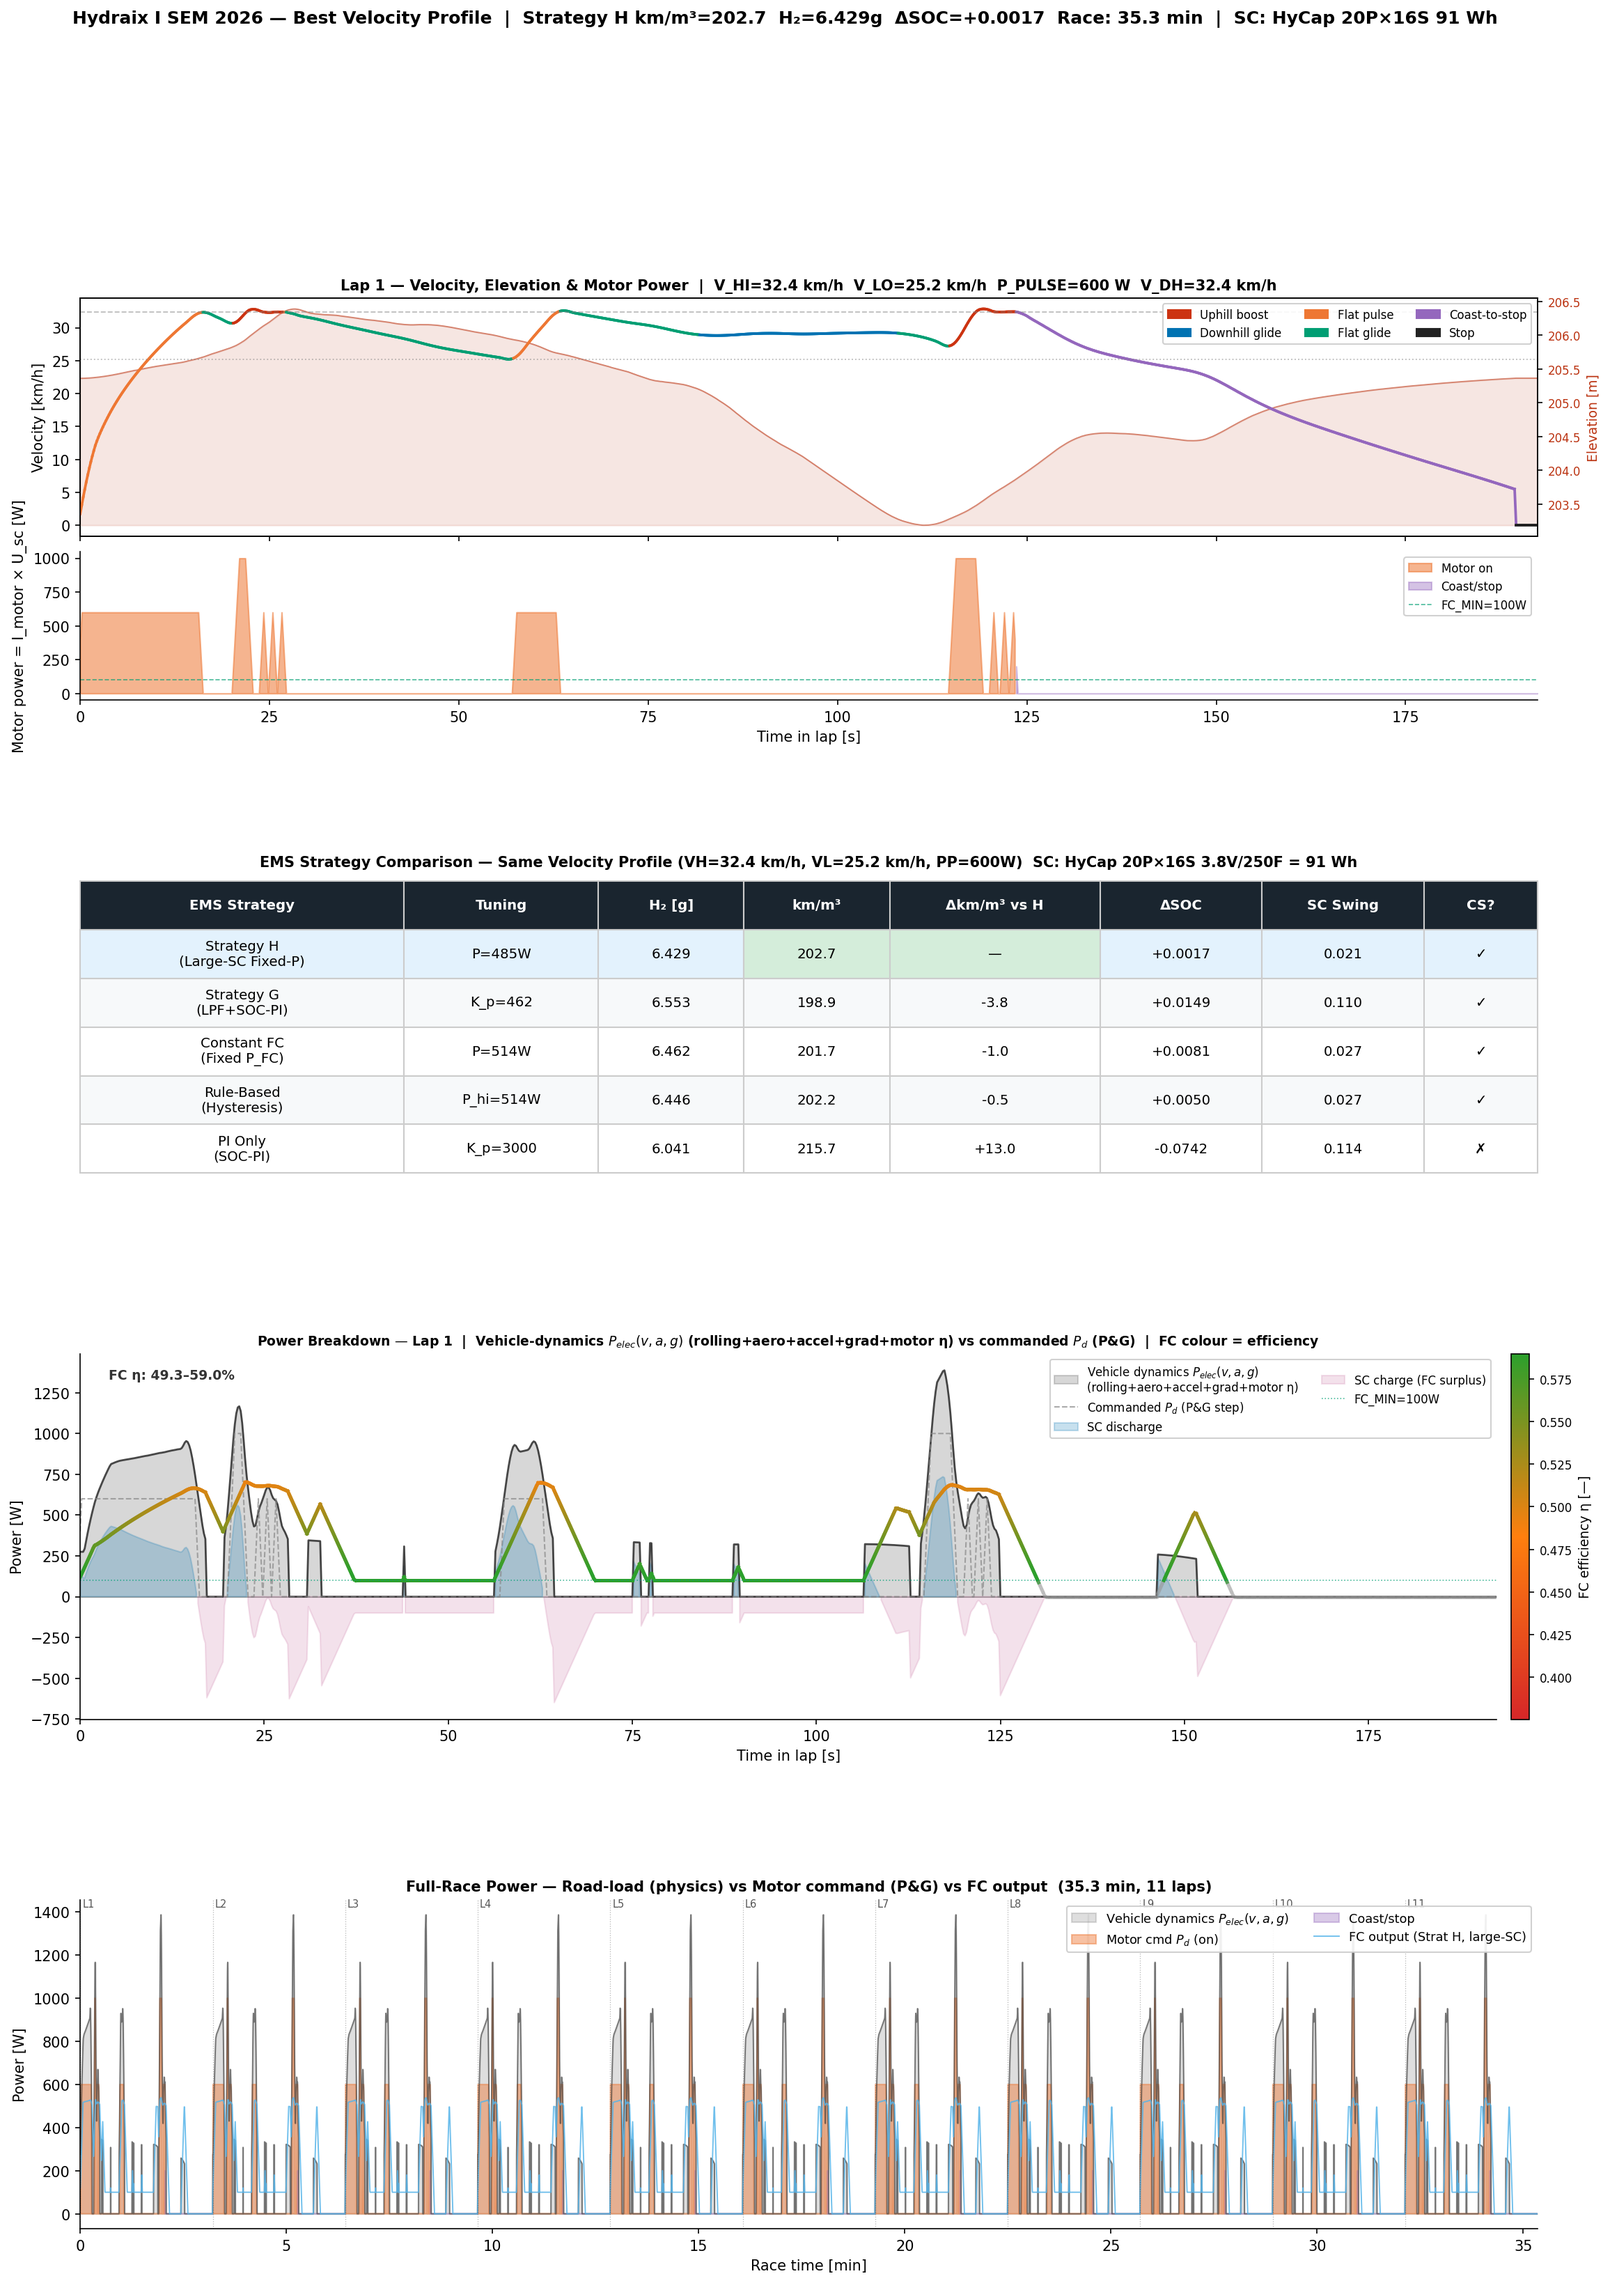
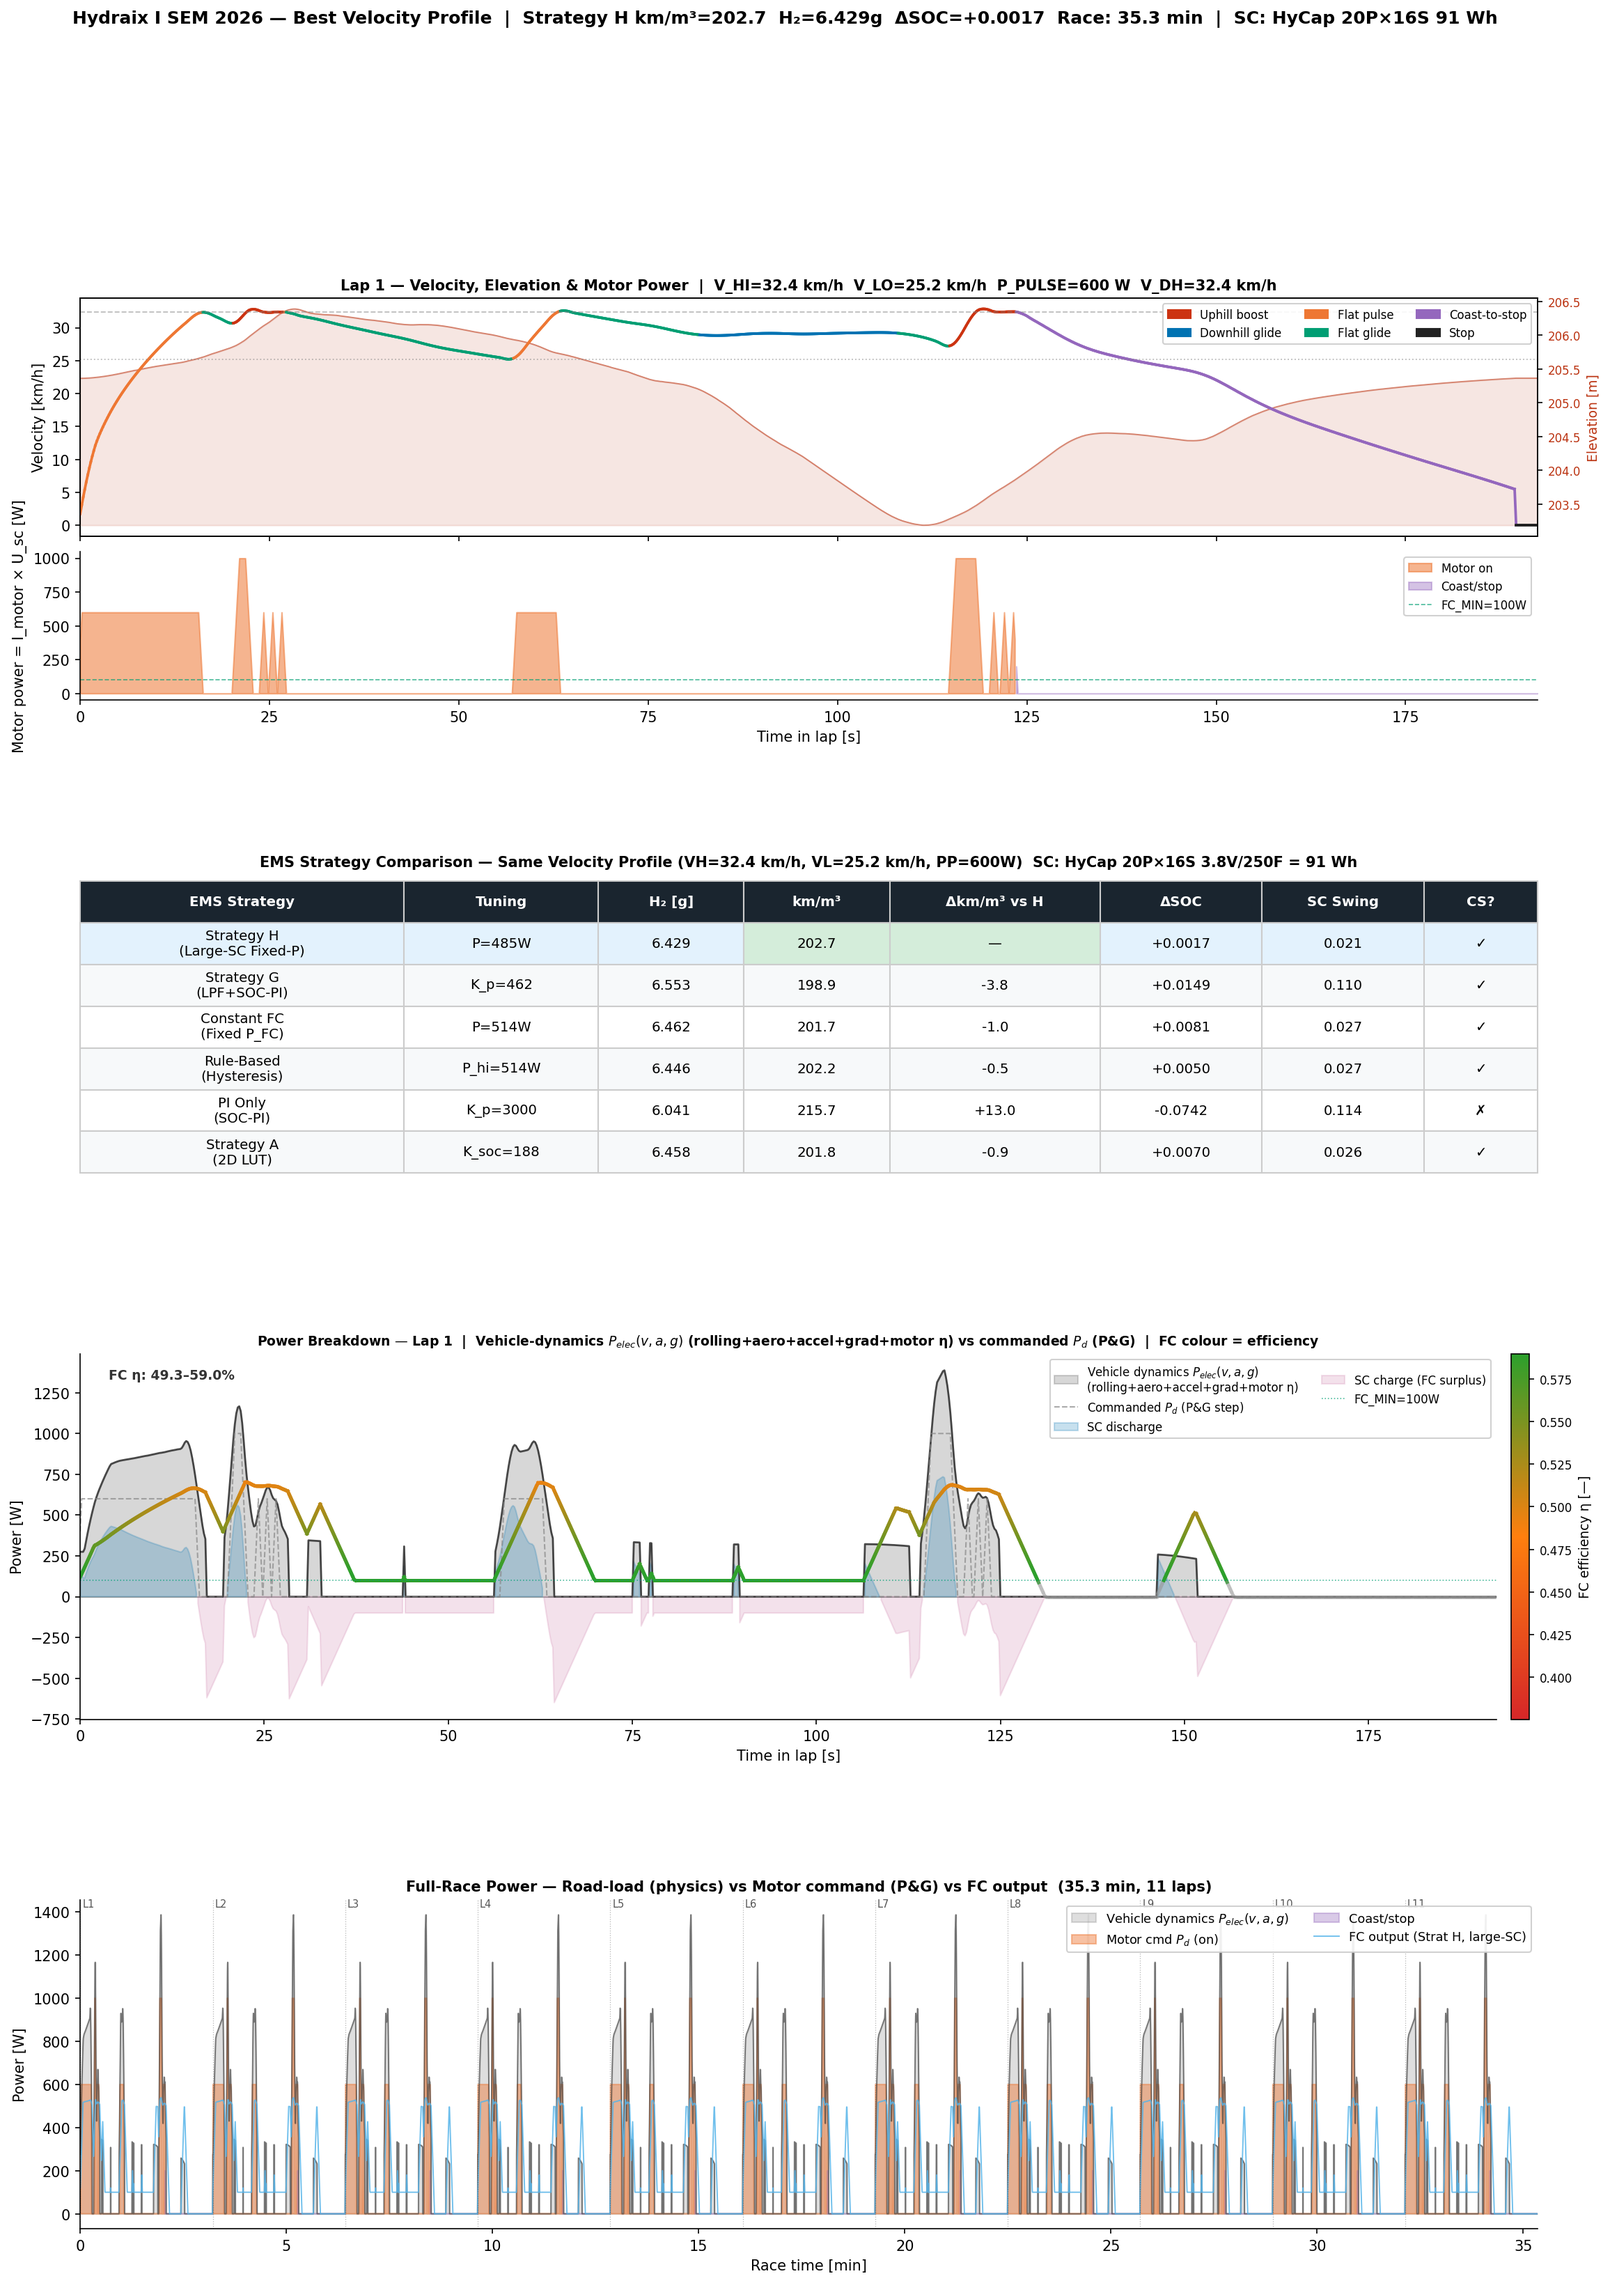
Add Strategy A (2D LUT) with I_motor/U_sc interface to EMS comparison
Ports strategy_a_lut.py into combined_best_profile.py using the same
fn(I_motor, U_sc, Pp, til, li) interface as all other strategies.

Key design choices:
- u = (P_motor - P_fc_prev) / SC_E_J  (normalized SC power request)
- P_base computed to balance energy accounting for the FC_P_MIN floor
  that simulate() applies during glide phases:
  P_base = (E_motor_total - FC_MIN × T_glide) / T_motor_on
- K_soc bisected for charge sustenance (|dSOC| ≤ 0.015)

Results on best profile (VH=9.0, VL=7.0, PP=600W):
  Strategy A:  K_soc=188  H2=6.458g  km/m³=201.8  dSOC=+0.007 ✓
  vs. Strategy H (best): km/m³=202.7, Strategy G: km/m³=198.9

Strategy A converges in 2 bisection iterations vs 6-25 for others,
thanks to the energy-balanced P_base removing most steady-state error.

https://claude.ai/code/session_01FtkemtJr7FgRXKyhfbWrwm

Changed region(s): [[0.0623, 0.3734, 0.9343, 0.529], [0.9031, 0.4667, 0.9343, 0.4979]]

diff --git a/fcs-strategy/ems/combined_best_profile.py b/fcs-strategy/ems/combined_best_profile.py
@@ -12,7 +12,7 @@ import matplotlib.gridspec as mgridspec
 import matplotlib.colors as mcolors
 import matplotlib.cm as mcm
 from scipy.signal import savgol_filter
-from scipy.interpolate import interp1d
+from scipy.interpolate import interp1d, RegularGridInterpolator
 
 from ems_core import (
     FC_P_MIN, FC_P_MAX, FC_RAMP, LHV_H2,
@@ -254,6 +254,43 @@ def make_strat_h(P_set):
         return float(np.clip(P,FC_P_MIN,FC_P_MAX))
     return fn
 
+def make_strat_a(K_soc, P_base=200.):
+    """
+    Strategy A — 2D Lookup Table EMS.
+
+    Maps (u = (P_motor − P_fc_prev) / SC_E_J, SOC) → P_fc [W] via bilinear
+    interpolation on a 21×18 pre-built table.
+
+    K_soc  : SOC feedback gain [W per unit SOC], bisected for charge sustenance.
+    P_base : mean motor-on demand [W], feedforward term (sets FC at SOC=SOC_0).
+    K_rate : rate feedforward for |u| > deadband (rarely activates with large SC).
+    """
+    u_grid   = np.linspace(-0.050, 0.050, 21)
+    soc_grid = np.linspace(0.10, 0.95, 18)
+    K_rate   = 500.0
+    deadband = 0.020
+    TABLE = np.zeros((21, 18))
+    for i, u_i in enumerate(u_grid):
+        for j, soc_j in enumerate(soc_grid):
+            delta_soc  = K_soc * (SC_SOC_0 - soc_j)
+            delta_rate = (K_rate * (abs(u_i) - deadband) * np.sign(u_i)
+                          if abs(u_i) > deadband else 0.0)
+            TABLE[i, j] = float(np.clip(P_base + delta_soc + delta_rate,
+                                        FC_P_MIN, FC_P_MAX))
+    _interp = RegularGridInterpolator(
+        (u_grid, soc_grid), TABLE,
+        method='linear', bounds_error=False, fill_value=None
+    )
+    def fn(I_motor, U_sc, Pp, til, li):
+        P_motor = I_motor * U_sc
+        SOC = (U_sc**2 - SC_V_MIN**2) / (SC_V_MAX**2 - SC_V_MIN**2)
+        if I_motor < 0.1:
+            return 0.
+        u     = float(np.clip((P_motor - Pp) / SC_E_J, u_grid[0], u_grid[-1]))
+        soc_c = float(np.clip(SOC, soc_grid[0], soc_grid[-1]))
+        return float(_interp([[u, soc_c]])[0])
+    return fn
+
 def simulate(fn,P_elec_arr,la_arr,coast_arr=None,SOC0=SC_SOC_0):
     """
     fn signature: fn(I_motor [A], U_sc [V], P_fc_prev, t_in_lap, lap_idx) -> P_fc [W]
@@ -328,6 +365,20 @@ def bisect_h(P_e,la,ca):
           f"(FC peak-η at {P_PEAK_ETA:.0f}W = {fc_eta(P_PEAK_ETA)*100:.1f}%)")
     return _bisect_param(make_strat_h, FC_P_MIN,FC_P_MAX,P_e,la,ca,'P_set')
 
+def bisect_a(P_e,la,ca):
+    print(f"\n  Strategy A bisect K_soc (2D LUT)")
+    # P_base must account for the FC_P_MIN=100W floor that simulate() applies
+    # during glide phases (ca=False, I_motor≈0): energy balance requires
+    #   P_base × T_motor_on + FC_P_MIN × T_floor = E_motor_total
+    ca_bool = ca.astype(bool)
+    T_motor_on = float(np.sum(P_e > 10.) * DT)
+    T_floor    = float(np.sum((P_e <= 10.) & ~ca_bool) * DT)
+    E_motor    = float(np.sum(P_e) * DT)
+    P_base     = float(np.clip((E_motor - FC_P_MIN * T_floor) / max(T_motor_on, 1.),
+                               FC_P_MIN, FC_P_MAX))
+    print(f"    P_base={P_base:.1f}W  (motor-on {T_motor_on:.0f}s, glide-floor {T_floor:.0f}s × {FC_P_MIN:.0f}W)")
+    return _bisect_param(lambda ks: make_strat_a(ks, P_base), 50.,600.,P_e,la,ca,'K_soc')
+
 # ── Grid search — target ≤ 35 min ─────────────────────────────────────────────
 print("=== Combined Best Profile — 35-min constraint grid search ===")
 V_HI_vals = [8.5, 9.0]
@@ -399,6 +450,10 @@ km3_h = TOTAL_KM/(r_h['m_H2']/H2_DENSITY)
 print(f"  Strategy H  P_set={Ps_h:.0f}W  H2={r_h['m_H2']:.3f}g  km/m³={km3_h:.1f}  dSOC={r_h['dSOC']:+.4f}  "
       f"(FC peak-η at {P_PEAK_ETA:.0f}W, η={fc_eta(P_PEAK_ETA)*100:.1f}%)")
 
+Ks_a, r_a = bisect_a(P_e_b,la_b,ca_b)
+km3_a = TOTAL_KM/(r_a['m_H2']/H2_DENSITY)
+print(f"  Strategy A  K_soc={Ks_a:.1f}  H2={r_a['m_H2']:.3f}g  km/m³={km3_a:.1f}  dSOC={r_a['dSOC']:+.4f}")
+
 strategies = [
     dict(name='Strategy H\n(Large-SC Fixed-P)', param=f'P={Ps_h:.0f}W',
          H2=r_h['m_H2'], km3=km3_h, dSOC=r_h['dSOC'],
@@ -420,6 +475,10 @@ strategies = [
          H2=r_pi['m_H2'], km3=km3_pi, dSOC=r_pi['dSOC'],
          sc_swing=float(np.max(r_pi['SOC'])-np.min(r_pi['SOC'])),
          cs=abs(r_pi['dSOC'])<=0.015, color='#0072B2', Pfc=r_pi['Pfc'], SOC=r_pi['SOC']),
+    dict(name='Strategy A\n(2D LUT)', param=f'K_soc={Ks_a:.0f}',
+         H2=r_a['m_H2'], km3=km3_a, dSOC=r_a['dSOC'],
+         sc_swing=float(np.max(r_a['SOC'])-np.min(r_a['SOC'])),
+         cs=abs(r_a['dSOC'])<=0.015, color='#E69F00', Pfc=r_a['Pfc'], SOC=r_a['SOC']),
 ]
 
 # ── Figure ─────────────────────────────────────────────────────────────────────
